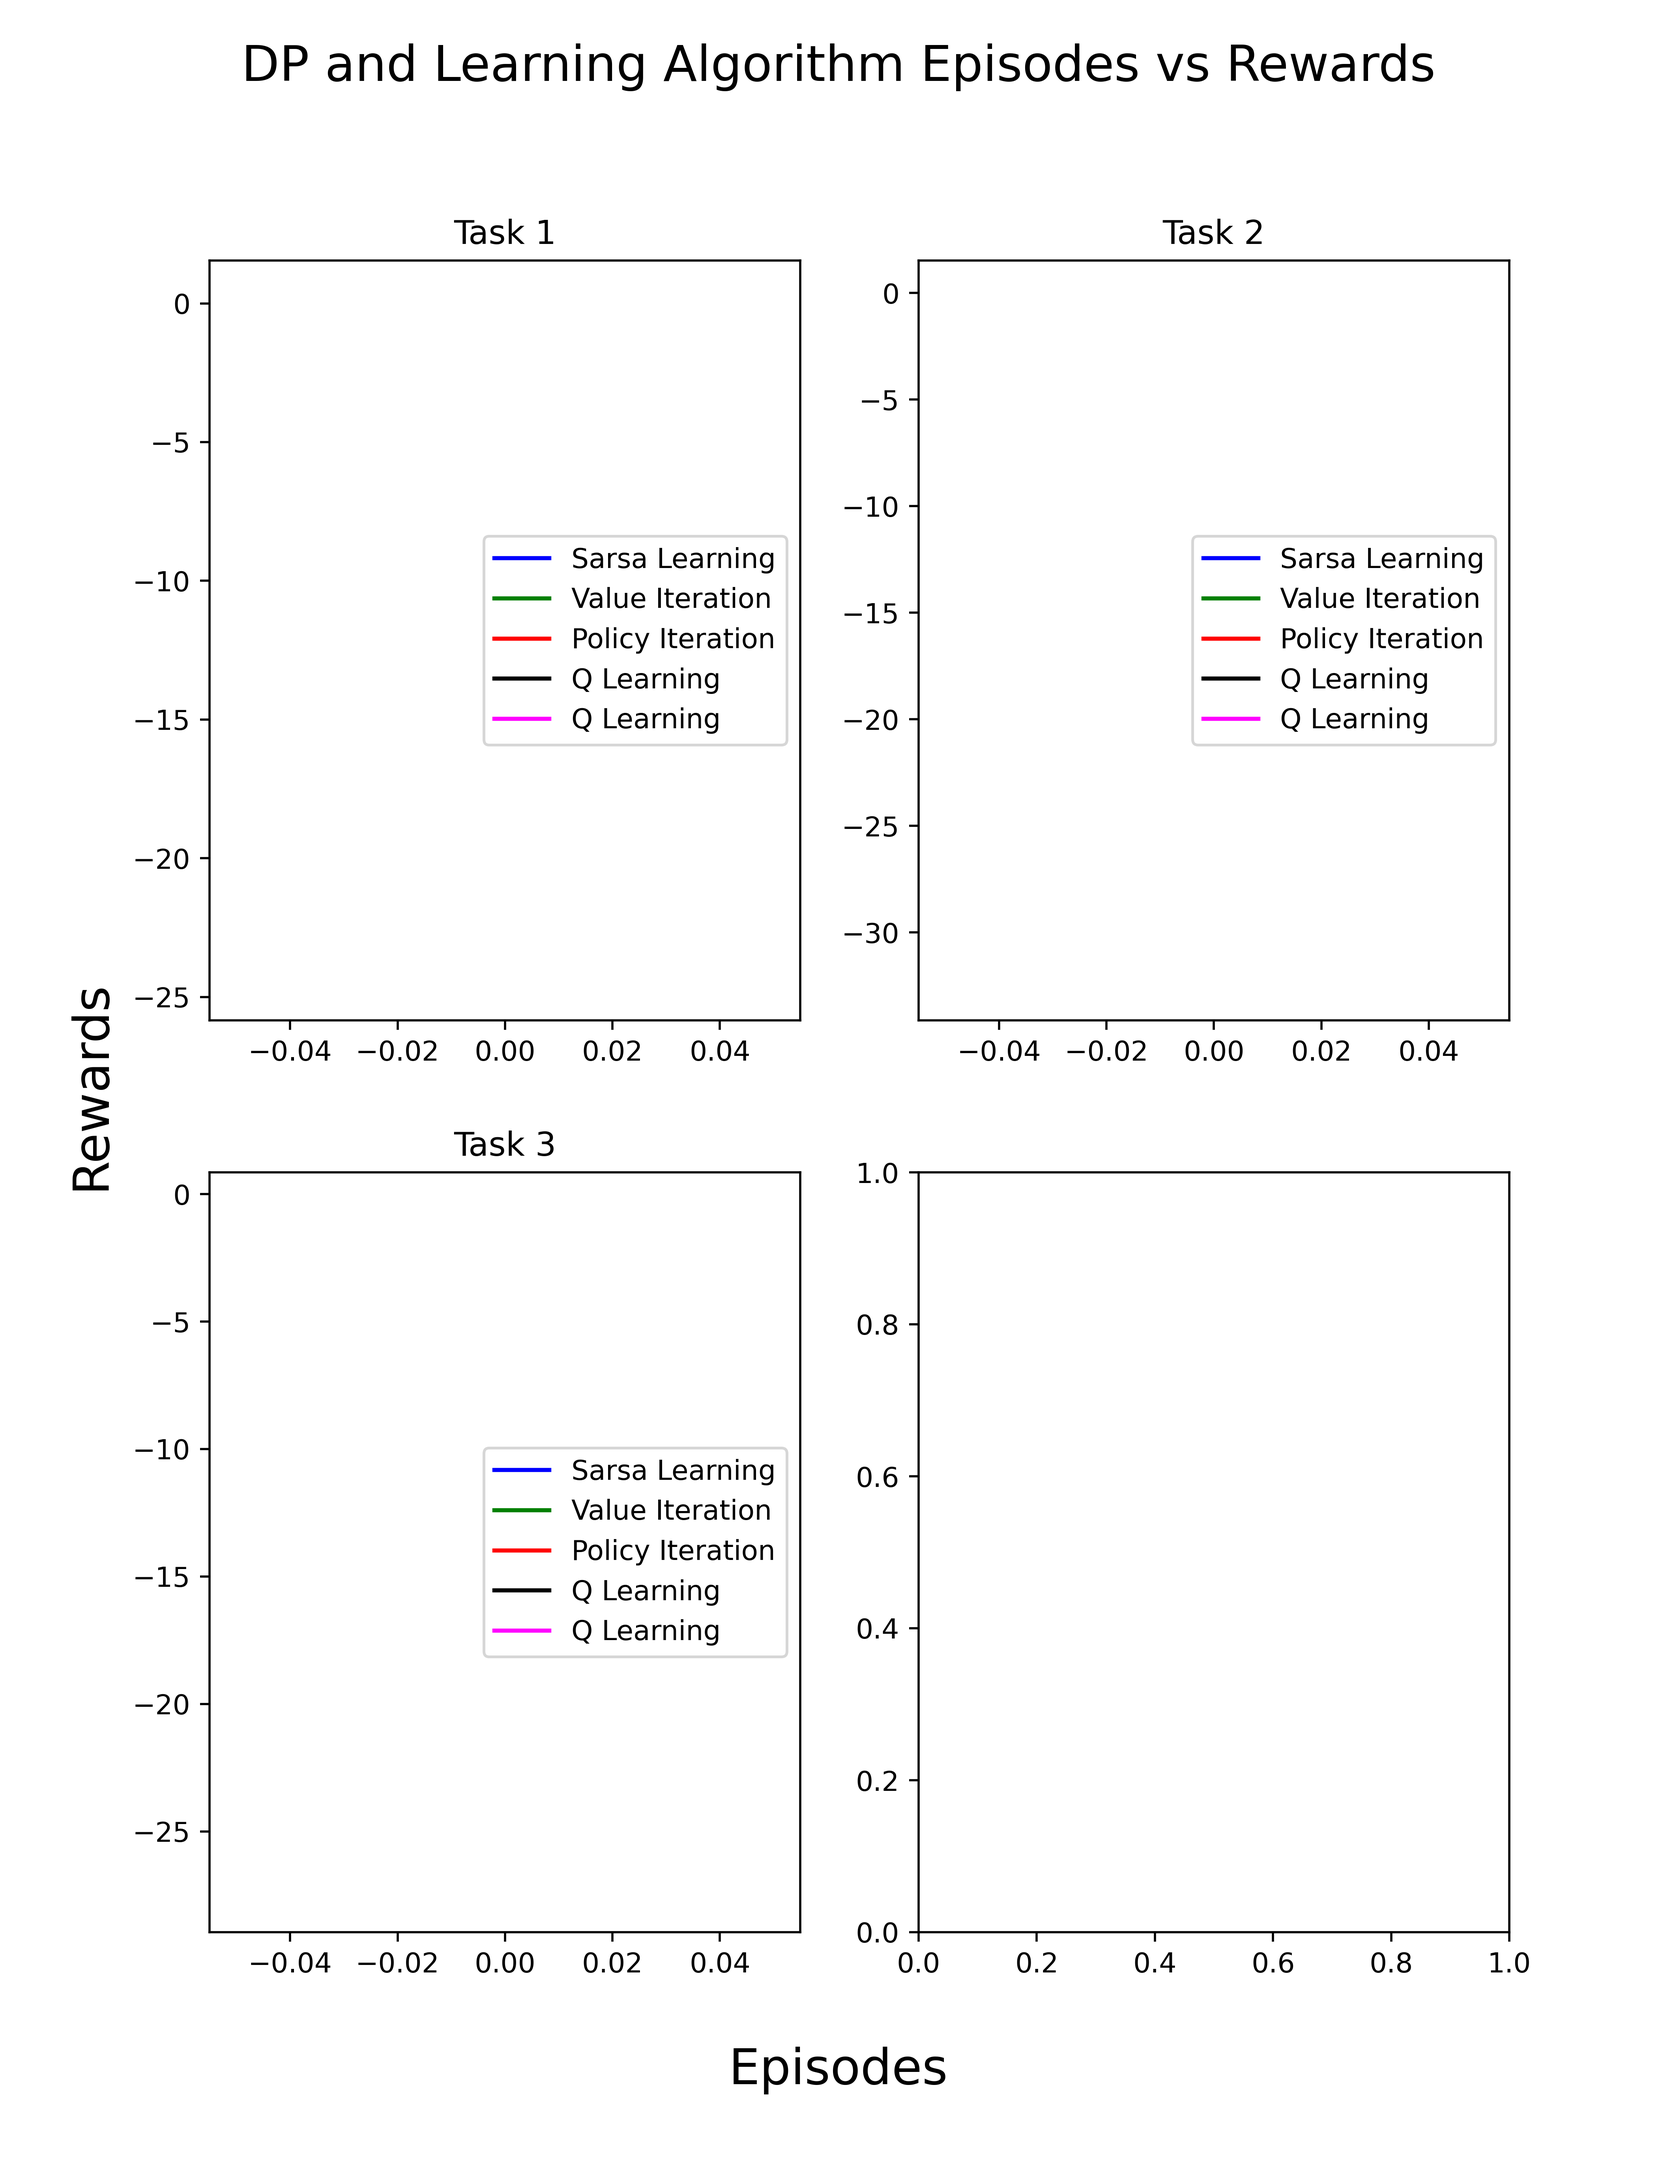
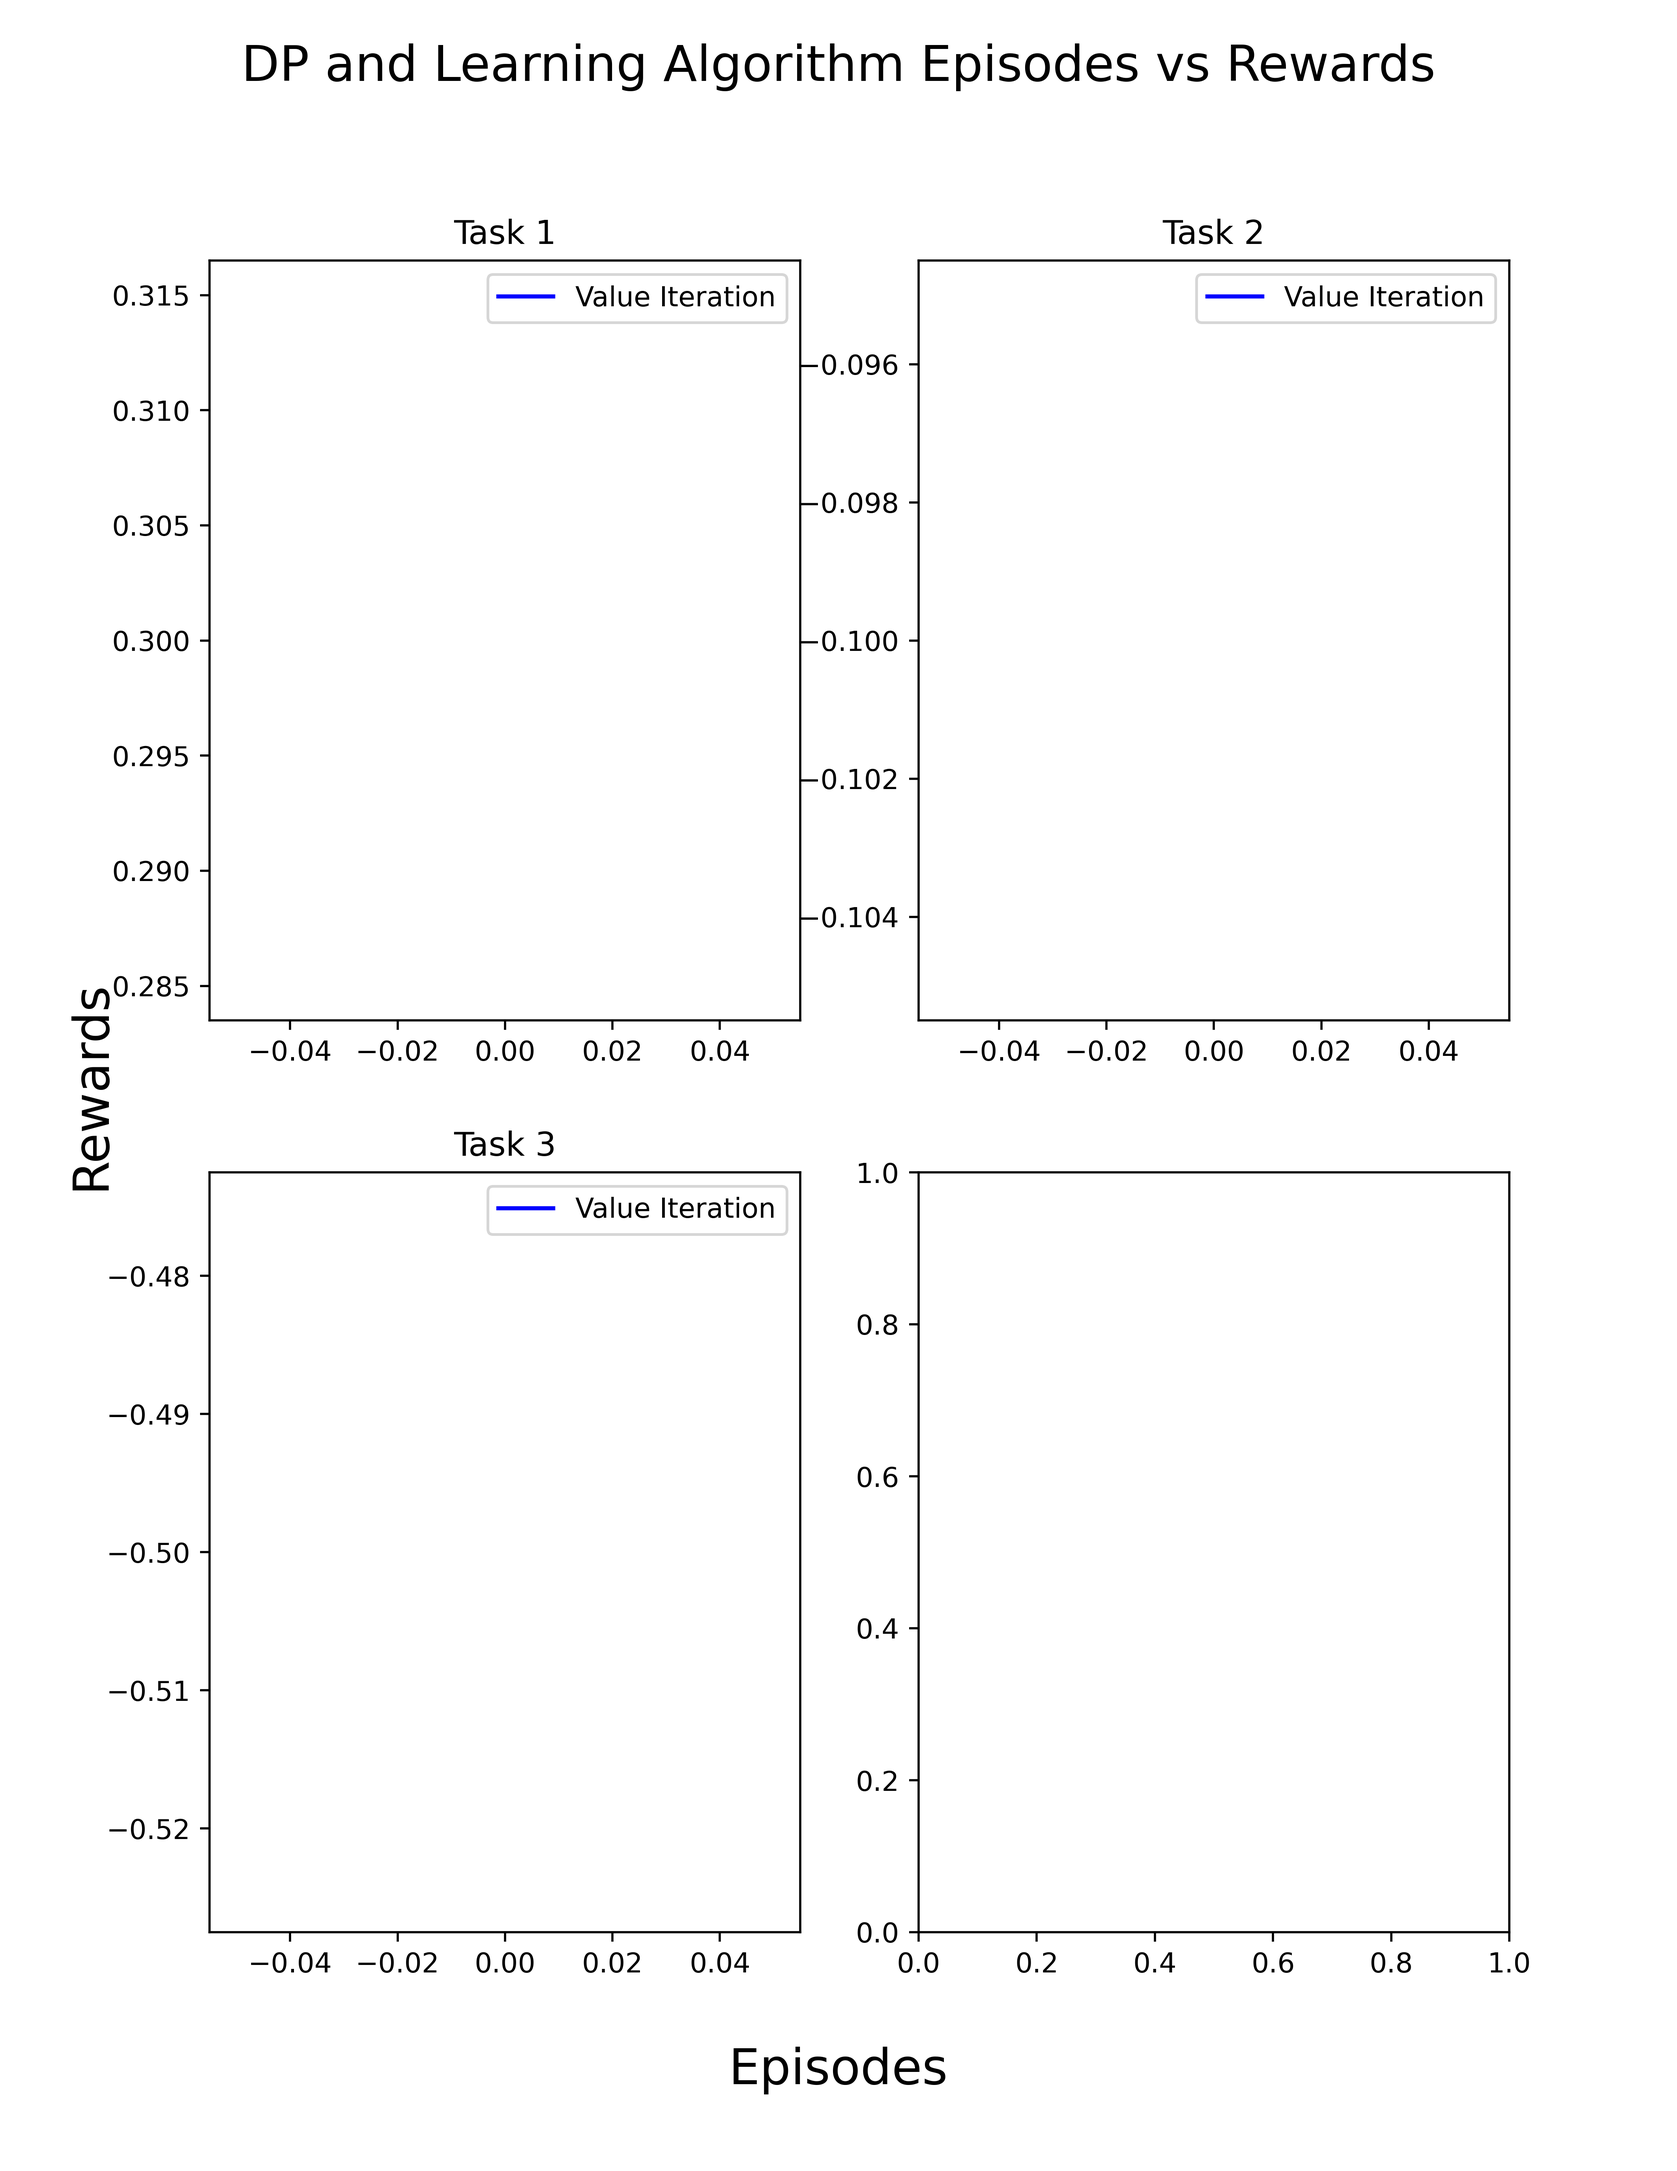
add pseudo code:

diff --git a/assignments/maze_world/learning_algorithms/RL_brain_expected_sarsa.py b/assignments/maze_world/learning_algorithms/RL_brain_expected_sarsa.py
@@ -30,8 +30,15 @@ class ExpectedSarsaLearning():
     def learn(self, s, a, r, s_):
         a_ = self.choose_action(s_)
 
-        expected_q = sum([self.q[s_][action]
-                          for action in self.actions])
+        state_action_values = np.array([self.q[s_][action]
+                                        for action in self.actions])
+        # weighted probability
+        probabilities = state_action_values / np.sum(state_action_values)
+
+        expected_q = np.sum(probabilities * np.array([self.q[s_][action]
+                                                      for action in self.actions]))
+        # expected_q = sum([self.q[s_][action]
+        #   for action in self.actions])
         self.q[s][a] = self.q[s][a] + \
             self.lr*(r + self.dr*expected_q-self.q[s][a])
         return s_, a_

diff --git a/assignments/maze_world/sim.py b/assignments/maze_world/sim.py
@@ -90,8 +90,10 @@ def q_learning(task):
     do_algorithm(rl, task, env)
 
 
-algos = [value_iteration, policy_iteration,
-         sarsa_learning, expected_sarsa_learning, q_learning]
+# algos = [value_iteration, policy_iteration,
+#          sarsa_learning, expected_sarsa_learning, q_learning]
+
+algos = [expected_sarsa_learning]
 
 
 def run(method, task_num):
